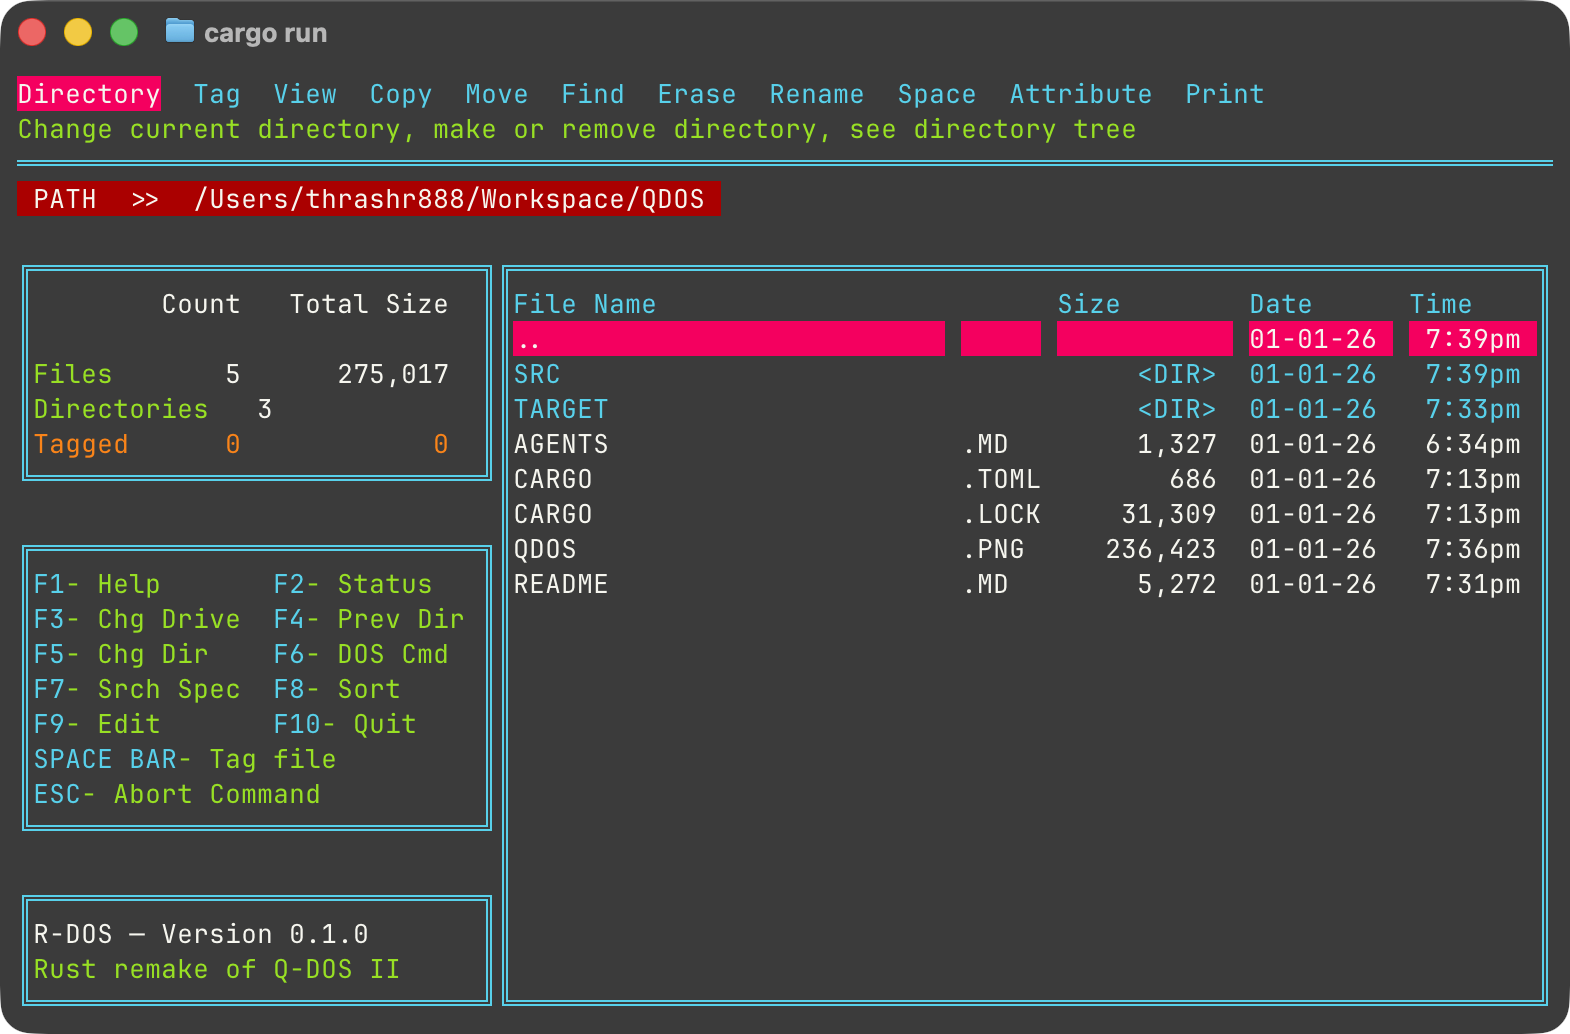
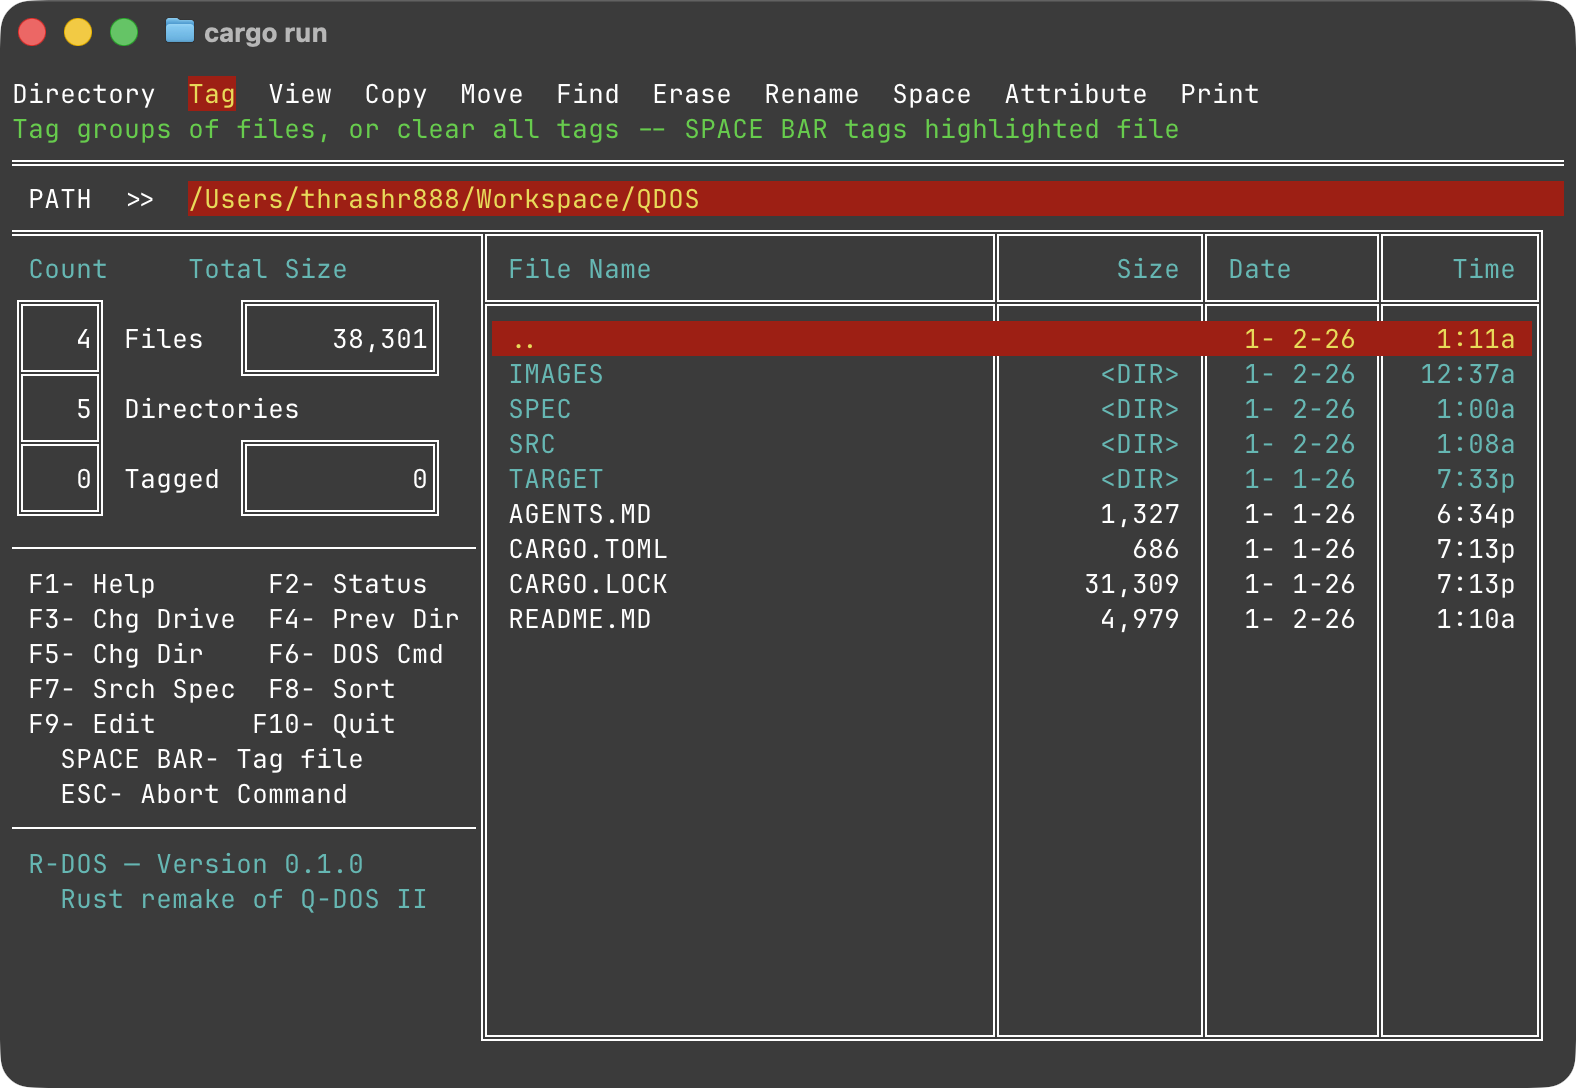
Add F6 Shell Command runner with full-screen interface
- Add ShellCommandState struct for command input, output, history
- Add Modal::ShellCommand variant for shell command screen
- Implement execute_shell_command_impl for running commands
- Add full-screen shell command UI with:
  - Command input with $ prompt
  - Working directory display
  - Output area with scroll support (PgUp/PgDn)
  - Exit code display (green=0, red=error)
  - Command history navigation (↑/↓)
  - Tab completion for paths
  - stderr shown in red
- Press F6 to open, ESC to close

🤖 Generated with [Claude Code](https://claude.com/claude-code)

Changed region(s): [[0.0, 0.0309, 0.9987, 0.9903]]

diff --git a/src/app.rs b/src/app.rs
@@ -117,6 +117,39 @@ impl SortMode {
     }
 }
 
+/// Shell command state
+#[derive(Debug, Clone, PartialEq, Eq)]
+pub struct ShellCommandState {
+    /// Command input buffer
+    pub input: String,
+    /// Output lines from executed command
+    pub output: Vec<String>,
+    /// Whether a command is currently running
+    pub running: bool,
+    /// Exit code of last command (None if not yet executed)
+    pub exit_code: Option<i32>,
+    /// Scroll offset for output
+    pub scroll_offset: usize,
+    /// Command history
+    pub history: Vec<String>,
+    /// Current position in history
+    pub history_index: Option<usize>,
+}
+
+impl Default for ShellCommandState {
+    fn default() -> Self {
+        Self {
+            input: String::new(),
+            output: Vec::new(),
+            running: false,
+            exit_code: None,
+            scroll_offset: 0,
+            history: Vec::new(),
+            history_index: None,
+        }
+    }
+}
+
 /// Active modal dialog
 #[derive(Debug, Clone, PartialEq, Eq)]
 pub enum Modal {
@@ -133,6 +166,7 @@ pub enum Modal {
     MoveTo(String),
     EraseConfirm,
     RenameInput(String),
+    ShellCommand(ShellCommandState),
 }
 
 /// Application state
@@ -240,9 +274,9 @@ impl App {
                 let path = self.current_path.to_string_lossy().to_string();
                 self.modal = Modal::PathInput(path);
             }
-            // DOS Command (not implemented)
+            // Shell Command
             KeyCode::F(6) => {
-                self.modal = Modal::Error("DOS Command not implemented".to_string());
+                self.modal = Modal::ShellCommand(ShellCommandState::default());
             }
             // Search spec
             KeyCode::F(7) => {
@@ -464,6 +498,73 @@ impl App {
                     }
                     KeyCode::Char(c) => {
                         new_name.push(c);
+                    }
+                    _ => {}
+                }
+            }
+            Modal::ShellCommand(ref mut state) => {
+                match key.code {
+                    KeyCode::Esc => {
+                        self.modal = Modal::None;
+                    }
+                    KeyCode::Enter => {
+                        if !state.input.is_empty() {
+                            let cmd = state.input.clone();
+                            let cwd = self.current_path.clone();
+                            // Add to history
+                            state.history.push(cmd.clone());
+                            state.history_index = None;
+                            // Execute command (use standalone function to avoid borrow issues)
+                            let output = execute_shell_command_impl(&cmd, &cwd);
+                            state.output = output.0;
+                            state.exit_code = Some(output.1);
+                            state.input.clear();
+                            state.scroll_offset = 0;
+                        }
+                    }
+                    KeyCode::Backspace => {
+                        state.input.pop();
+                    }
+                    KeyCode::Up => {
+                        // Navigate history up
+                        if !state.history.is_empty() {
+                            let new_idx = match state.history_index {
+                                Some(idx) if idx > 0 => idx - 1,
+                                Some(idx) => idx,
+                                None => state.history.len() - 1,
+                            };
+                            state.history_index = Some(new_idx);
+                            state.input = state.history[new_idx].clone();
+                        }
+                    }
+                    KeyCode::Down => {
+                        // Navigate history down
+                        if let Some(idx) = state.history_index {
+                            if idx + 1 < state.history.len() {
+                                let new_idx = idx + 1;
+                                state.history_index = Some(new_idx);
+                                state.input = state.history[new_idx].clone();
+                            } else {
+                                state.history_index = None;
+                                state.input.clear();
+                            }
+                        }
+                    }
+                    KeyCode::PageUp => {
+                        state.scroll_offset = state.scroll_offset.saturating_sub(10);
+                    }
+                    KeyCode::PageDown => {
+                        let max_scroll = state.output.len().saturating_sub(10);
+                        state.scroll_offset = (state.scroll_offset + 10).min(max_scroll);
+                    }
+                    KeyCode::Tab => {
+                        // Tab completion for commands/paths
+                        if let Some(completed) = Self::tab_complete(&state.input) {
+                            state.input = completed;
+                        }
+                    }
+                    KeyCode::Char(c) => {
+                        state.input.push(c);
                     }
                     _ => {}
                 }
@@ -845,4 +946,48 @@ fn copy_dir_recursive(src: &PathBuf, dest: &PathBuf) -> Result<()> {
         }
     }
     Ok(())
+}
+
+/// Execute a shell command and return (output lines, exit code)
+fn execute_shell_command_impl(cmd: &str, cwd: &PathBuf) -> (Vec<String>, i32) {
+    use std::process::{Command, Stdio};
+    use std::io::{BufRead, BufReader};
+
+    let shell = std::env::var("SHELL").unwrap_or_else(|_| "/bin/sh".to_string());
+
+    let result = Command::new(&shell)
+        .arg("-c")
+        .arg(cmd)
+        .current_dir(cwd)
+        .stdout(Stdio::piped())
+        .stderr(Stdio::piped())
+        .output();
+
+    match result {
+        Ok(output) => {
+            let mut lines = Vec::new();
+
+            // Add stdout lines
+            let stdout_reader = BufReader::new(&output.stdout[..]);
+            for line in stdout_reader.lines() {
+                if let Ok(l) = line {
+                    lines.push(l);
+                }
+            }
+
+            // Add stderr lines
+            let stderr_reader = BufReader::new(&output.stderr[..]);
+            for line in stderr_reader.lines() {
+                if let Ok(l) = line {
+                    lines.push(format!("stderr: {}", l));
+                }
+            }
+
+            let exit_code = output.status.code().unwrap_or(-1);
+            (lines, exit_code)
+        }
+        Err(e) => {
+            (vec![format!("Error executing command: {}", e)], -1)
+        }
+    }
 }

diff --git a/src/ui.rs b/src/ui.rs
@@ -1,4 +1,4 @@
-use crate::app::{App, Modal, NavItem};
+use crate::app::{App, Modal, NavItem, ShellCommandState};
 use crate::file_ops::get_disk_space;
 use humansize::{format_size, DECIMAL};
 use ratatui::{
@@ -523,6 +523,7 @@ fn draw_modal(frame: &mut Frame, app: &App, area: Rect) {
         Modal::MoveTo(dest) => draw_move_modal(frame, modal_area, dest, app),
         Modal::EraseConfirm => draw_erase_modal(frame, modal_area, app),
         Modal::RenameInput(name) => draw_rename_modal(frame, modal_area, name),
+        Modal::ShellCommand(state) => draw_shell_command(frame, area, state, app),
         Modal::None => {}
     }
 }
@@ -951,6 +952,126 @@ fn draw_rename_modal(frame: &mut Frame, area: Rect, name: &str) {
 
     frame.render_widget(Clear, rename_area);
     frame.render_widget(paragraph, rename_area);
+}
+
+/// Draw shell command screen (full screen)
+fn draw_shell_command(frame: &mut Frame, area: Rect, state: &ShellCommandState, app: &App) {
+    // Clear the entire screen
+    frame.render_widget(Clear, area);
+
+    // Layout: title, separator, working dir, input, separator, output, separator, help
+    let chunks = Layout::default()
+        .direction(Direction::Vertical)
+        .constraints([
+            Constraint::Length(1),  // Title
+            Constraint::Length(1),  // Separator
+            Constraint::Length(1),  // Working directory
+            Constraint::Length(1),  // Empty
+            Constraint::Length(1),  // Input prompt
+            Constraint::Length(1),  // Separator
+            Constraint::Min(5),     // Output area
+            Constraint::Length(1),  // Separator
+            Constraint::Length(1),  // Help line
+        ])
+        .split(area);
+
+    // Title (centered)
+    let title = "R-DOS Shell Command";
+    let padding = (area.width as usize).saturating_sub(title.len()) / 2;
+    let title_line = format!("{:>width$}{}", "", title, width = padding);
+    frame.render_widget(
+        Paragraph::new(Span::styled(title_line, Style::default().fg(COLOR_FG).add_modifier(Modifier::BOLD))),
+        chunks[0],
+    );
+
+    // Separator
+    let sep = "═".repeat(area.width as usize);
+    frame.render_widget(
+        Paragraph::new(Span::styled(&sep, Style::default().fg(COLOR_FG))),
+        chunks[1],
+    );
+
+    // Working directory
+    let wd_line = format!(" Working Directory: {}", app.current_path.display());
+    frame.render_widget(
+        Paragraph::new(Span::styled(wd_line, Style::default().fg(COLOR_GREEN))),
+        chunks[2],
+    );
+
+    // Input prompt with cursor
+    let input_line = format!(" $ {}_", state.input);
+    frame.render_widget(
+        Paragraph::new(Span::styled(input_line, Style::default().fg(COLOR_FG))),
+        chunks[4],
+    );
+
+    // Separator
+    frame.render_widget(
+        Paragraph::new(Span::styled(&sep, Style::default().fg(COLOR_FG))),
+        chunks[5],
+    );
+
+    // Output area
+    let output_height = chunks[6].height as usize;
+    let visible_lines: Vec<Line> = state.output
+        .iter()
+        .skip(state.scroll_offset)
+        .take(output_height)
+        .map(|line| {
+            let style = if line.starts_with("stderr:") {
+                Style::default().fg(COLOR_RED)
+            } else {
+                Style::default().fg(COLOR_FG)
+            };
+            Line::from(Span::styled(format!(" {}", line), style))
+        })
+        .collect();
+
+    // Show exit code at bottom if command completed
+    let mut output_lines = visible_lines;
+    if let Some(code) = state.exit_code {
+        if output_lines.len() < output_height {
+            output_lines.push(Line::from(""));
+            let exit_style = if code == 0 {
+                Style::default().fg(COLOR_GREEN)
+            } else {
+                Style::default().fg(COLOR_RED)
+            };
+            output_lines.push(Line::from(Span::styled(
+                format!(" [Exit code: {}]", code),
+                exit_style,
+            )));
+        }
+    }
+
+    frame.render_widget(
+        Paragraph::new(output_lines),
+        chunks[6],
+    );
+
+    // Separator
+    frame.render_widget(
+        Paragraph::new(Span::styled(&sep, Style::default().fg(COLOR_FG))),
+        chunks[7],
+    );
+
+    // Help line
+    let help_spans = vec![
+        Span::styled(" Enter", Style::default().fg(COLOR_BLUE)),
+        Span::raw(" run, "),
+        Span::styled("↑/↓", Style::default().fg(COLOR_BLUE)),
+        Span::raw(" history, "),
+        Span::styled("PgUp/PgDn", Style::default().fg(COLOR_BLUE)),
+        Span::raw(" scroll, "),
+        Span::styled("Tab", Style::default().fg(COLOR_BLUE)),
+        Span::raw(" complete, "),
+        Span::styled("Esc", Style::default().fg(COLOR_BLUE)),
+        Span::raw(" exit"),
+    ];
+    frame.render_widget(
+        Paragraph::new(Line::from(help_spans)),
+        chunks[8],
+    );
 }
 
 /// Create a centered rectangle

diff --git a/README.md b/README.md
@@ -50,23 +50,23 @@ rdos /path/to/directory
 
 ## Keyboard Shortcuts
 
-| Key | Action |
-|-----|--------|
-| ↑/↓ or j/k | Move selection |
-| ←/→ or h/l | Navigate menu |
-| Enter | Open directory / Execute action |
-| Space | Tag/untag file |
-| PgUp/PgDn | Scroll page |
-| Home/End | Jump to start/end |
-| F1 | Help |
-| F2 | System Status |
-| F4 | Parent Directory |
-| F5 | Change Directory |
-| F7 | Search Specification |
-| F8 | Cycle Sort Mode |
-| F10 or q | Quit |
-| Esc | Close dialog |
-| Ctrl+C | Force quit |
+| Key        | Action                          |
+| ---------- | ------------------------------- |
+| ↑/↓ or j/k | Move selection                  |
+| ←/→ or h/l | Navigate menu                   |
+| Enter      | Open directory / Execute action |
+| Space      | Tag/untag file                  |
+| PgUp/PgDn  | Scroll page                     |
+| Home/End   | Jump to start/end               |
+| F1         | Help                            |
+| F2         | System Status                   |
+| F4         | Parent Directory                |
+| F5         | Change Directory                |
+| F7         | Search Specification            |
+| F8         | Cycle Sort Mode                 |
+| F10 or q   | Quit                            |
+| Esc        | Close dialog                    |
+| Ctrl+C     | Force quit                      |
 
 ## Navigation Menu
 
@@ -84,7 +84,7 @@ rdos /path/to/directory
 
 ## Screenshots
 
-![R-DOS Screenshot](rdos.png)
+![R-DOS Screenshot](./images/rdos.png)
 
 ## Dependencies
 
@@ -99,4 +99,10 @@ rdos /path/to/directory
 
 ## License
 
-MIT
+Copyright 2026 Paul Thrasher
+
+Permission is hereby granted, free of charge, to any person obtaining a copy of this software and associated documentation files (the “Software”), to deal in the Software without restriction, including without limitation the rights to use, copy, modify, merge, publish, distribute, sublicense, and/or sell copies of the Software, and to permit persons to whom the Software is furnished to do so, subject to the following conditions:
+
+The above copyright notice and this permission notice shall be included in all copies or substantial portions of the Software.
+
+THE SOFTWARE IS PROVIDED “AS IS”, WITHOUT WARRANTY OF ANY KIND, EXPRESS OR IMPLIED, INCLUDING BUT NOT LIMITED TO THE WARRANTIES OF MERCHANTABILITY, FITNESS FOR A PARTICULAR PURPOSE AND NONINFRINGEMENT. IN NO EVENT SHALL THE AUTHORS OR COPYRIGHT HOLDERS BE LIABLE FOR ANY CLAIM, DAMAGES OR OTHER LIABILITY, WHETHER IN AN ACTION OF CONTRACT, TORT OR OTHERWISE, ARISING FROM, OUT OF OR IN CONNECTION WITH THE SOFTWARE OR THE USE OR OTHER DEALINGS IN THE SOFTWARE.
